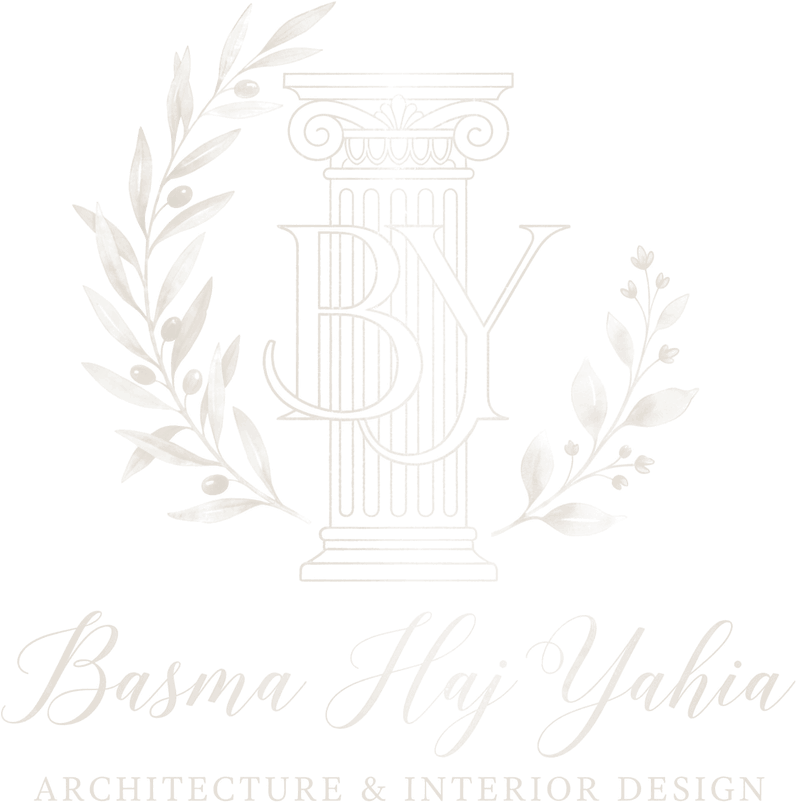
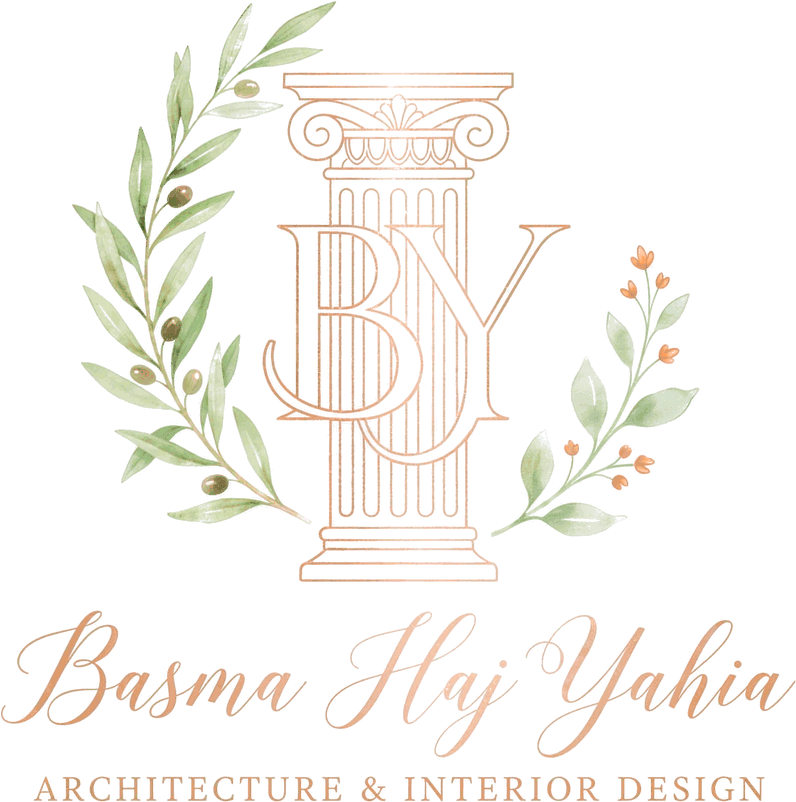
Her colours back, and a halo where a phone needs one
Flat ink and flat paper were legible and wrong: «لععع بديش اياه اسود وابيض».
The navbar's two prints are her own artwork again — same bronze, same olive —
and what differs between them is only the exposure. Against paper and the film's
lit ceiling it is taken down to 72% with a little more colour and contrast,
which is what makes the column's hairlines hold; against the espresso it is
taken up to 126%, which is what keeps the leaves green instead of black. The
navbar still reads the ground and picks.

And the halo comes back on the phone, over the film only, where the mark is 83px
against whatever the crop lands on rather than 154 against mostly ceiling. Each
print carries the halo of the ground it is for — cream under the exposed-down
one, shadow under the exposed-up one — so whichever is on screen is the one
being lifted. Nothing on a wide screen, where he asked for it gone and where it
is not needed.

Measured on a phone, A/B in one page load: 0 dropped frames either way, p99 18.0
with the halo against 17.8 without. Desktop confirmed clean of filters at both
ends of the page.

diff --git a/app/src/styles.css b/app/src/styles.css
@@ -296,6 +296,24 @@ html {
 .bhy-nav-cut .bhy-nav-row > * {
   pointer-events: none;
 }
+/* On a phone, over the film only, the mark gets a halo behind it. Kareem asked
+   for the blur gone on the desktop and back here — «واعمله بلر بس عالتلفون
+   وخليه عنجد يبين» — and the two are not a contradiction: on a wide screen the
+   mark is 154px over a picture that is mostly ceiling, and on a phone it is 83
+   over whatever the crop happens to land on. Each print gets the halo of the
+   ground it is FOR, so the one on screen is always the one being lifted: the
+   exposed-down print is carried by cream, the exposed-up print by shadow. */
+@media (max-width: 767px) {
+  .bhy-nav-onfilm .bhy-nav-cut .bhy-logo-link {
+    filter: drop-shadow(0 0 2px rgba(252, 249, 243, 0.95))
+      drop-shadow(0 0 7px rgba(252, 249, 243, 0.85))
+      drop-shadow(0 0 20px rgba(252, 249, 243, 0.7));
+  }
+  .bhy-nav-onfilm .bhy-nav-strip > .bhy-nav-row .bhy-logo-link {
+    filter: drop-shadow(0 0 3px rgba(20, 12, 6, 0.75)) drop-shadow(0 0 12px rgba(20, 12, 6, 0.6));
+  }
+}
+
 /* Nothing is drawn behind the lockup over the film. A cream halo used to sit
    under the ink print to lift it off the brighter frames; Kareem read it as
    blur — «البلر الي علا اللوجو بدي ينقام» — and he is right that it softened

diff --git a/app/src/components/site/nav.tsx b/app/src/components/site/nav.tsx
@@ -119,11 +119,10 @@ export function SiteNav({ t, lang, onToggleLang }: NavProps) {
         <div className="bhy-nav-strip">
           <div className="bhy-nav-row">
             <a href="#top" onClick={close} className="bhy-logo-link" aria-label={t.brandLatin}>
-              {/* The print for dark ground. Her lockup's own bronze and olive
-                  measured 4.0:1 on the espresso section — 1.4:1 at the worst —
-                  so the mark sank into the brown instead of standing on it.
-                  This print keeps the artwork's alpha exactly as drawn and
-                  repaints it in paper: 12.1:1 on the same brown. */}
+              {/* The print for dark ground: her lockup in its own colours,
+                  exposed up so the leaves stay green on the espresso instead of
+                  going black. The ink twin below is the same artwork exposed
+                  down, for paper and for the film's lit ceiling. */}
               <img
                 src="/assets/nav-mark-light.webp"
                 alt={t.brandLatin}

diff --git a/tools/images.py b/tools/images.py
@@ -235,47 +235,39 @@ def sitena():
 # else. Both are cut with the SAME box, because they are stacked on top of each
 # other and the ink one is clipped to whatever is light behind it: a pixel of
 # drift between them would show as a seam through the middle of the mark.
-def ink_logo():
-    """The print for light ground — including a photograph.
-
-    Her lockup's own bronze and olive measure 4:1 against the film's brighter
-    frames and vanish at the size the navbar gives them; Kareem, on a phone:
-    «وهو بالمرة مش مبين هسا بهاي الألوان». So the navbar carries the mark in
-    the site's own ink the same way it carries the paper print for dark ground:
-    the artwork's alpha exactly as drawn, repainted, with a whisper of the
-    original modelling left so the leaves and the column keep their depth.
-    Around 9:1 on the film's lit ceiling. Her full-colour lockup stays where it
-    can be read in colour — the footer, on paper.
-    """
-    im = load(f"{A}/logo.webp").convert("RGBA")
-    alpha = im.split()[3]
-    grey = im.convert("L")
-    ink = (62, 46, 35)
-    # the original's light and shade, compressed into the dark end
-    shade = grey.point(lambda v: int(78 + 60 * (v / 255)))
-    out = Image.merge("RGBA", (
-        shade.point(lambda v: min(255, round(v * ink[0] / 110))),
-        shade.point(lambda v: min(255, round(v * ink[1] / 110))),
-        shade.point(lambda v: min(255, round(v * ink[2] / 110))),
-        alpha,
-    ))
-    out.save(f"{A}/logo-ink.webp", "WEBP", lossless=True, quality=100, method=6)
-    print(f"logo-ink.webp {out.size} {os.path.getsize(f'{A}/logo-ink.webp') // 1024}KB")
-
-
 def nav_prints():
-    ink_logo()
-    ink = load(f"{A}/logo-ink.webp").convert("RGBA")
-    light = load(f"{A}/logo-light.webp").convert("RGBA")
-    box = ink.getbbox()
-    other = light.getbbox()
-    box = (min(box[0], other[0]), min(box[1], other[1]),
-           max(box[2], other[2]), max(box[3], other[3]))
-    for src, name in ((ink, "nav-mark.webp"), (light, "nav-mark-light.webp")):
-        cut = fit_width(src.crop(box), 900)
+    """Two prints of her lockup for the navbar, both in her own colours.
+
+    A repaint in flat ink and flat paper was legible and wrong — Kareem, once
+    he saw it: «لععع بديش اياه اسود وابيض». Her mark keeps its bronze and its
+    olive; what changes between the two prints is only how the picture is
+    exposed. Against paper and against the film's lit ceiling the artwork is
+    taken DOWN (72% of its brightness, a little more colour and contrast), which
+    is what makes the hairlines of the column hold. Against the espresso it is
+    taken UP (126%), which is what keeps the leaves green instead of black. The
+    navbar switches between them by reading the ground, so neither has to work
+    everywhere.
+    """
+    from PIL import ImageEnhance
+
+    src = load(f"{A}/logo.webp").convert("RGBA")
+    art = src.crop(src.getbbox())
+    rgb, alpha = art.convert("RGB"), art.split()[3]
+
+    def tuned(bright, colour, contrast=1.0):
+        out = ImageEnhance.Color(ImageEnhance.Brightness(rgb).enhance(bright)).enhance(colour)
+        if contrast != 1.0:
+            out = ImageEnhance.Contrast(out).enhance(contrast)
+        out = out.convert("RGBA")
+        out.putalpha(alpha)
+        return out
+
+    for mark, name in ((tuned(0.72, 1.25, 1.10), "nav-mark.webp"),
+                       (tuned(1.26, 1.20), "nav-mark-light.webp")):
+        cut = fit_width(mark, 900)
         cut.save(f"{A}/{name}", "WEBP", lossless=True, quality=100, method=6, exact=True)
         print(f"{name:22s} {cut.width}x{cut.height}  {os.path.getsize(f'{A}/{name}') // 1024}KB")
-    print(f"{'':22s} cut from {ink.size} at {box}")
+    print(f"{'':22s} cropped to the artwork, {art.size} of {src.size}")
 
 
 if __name__ == "__main__":
